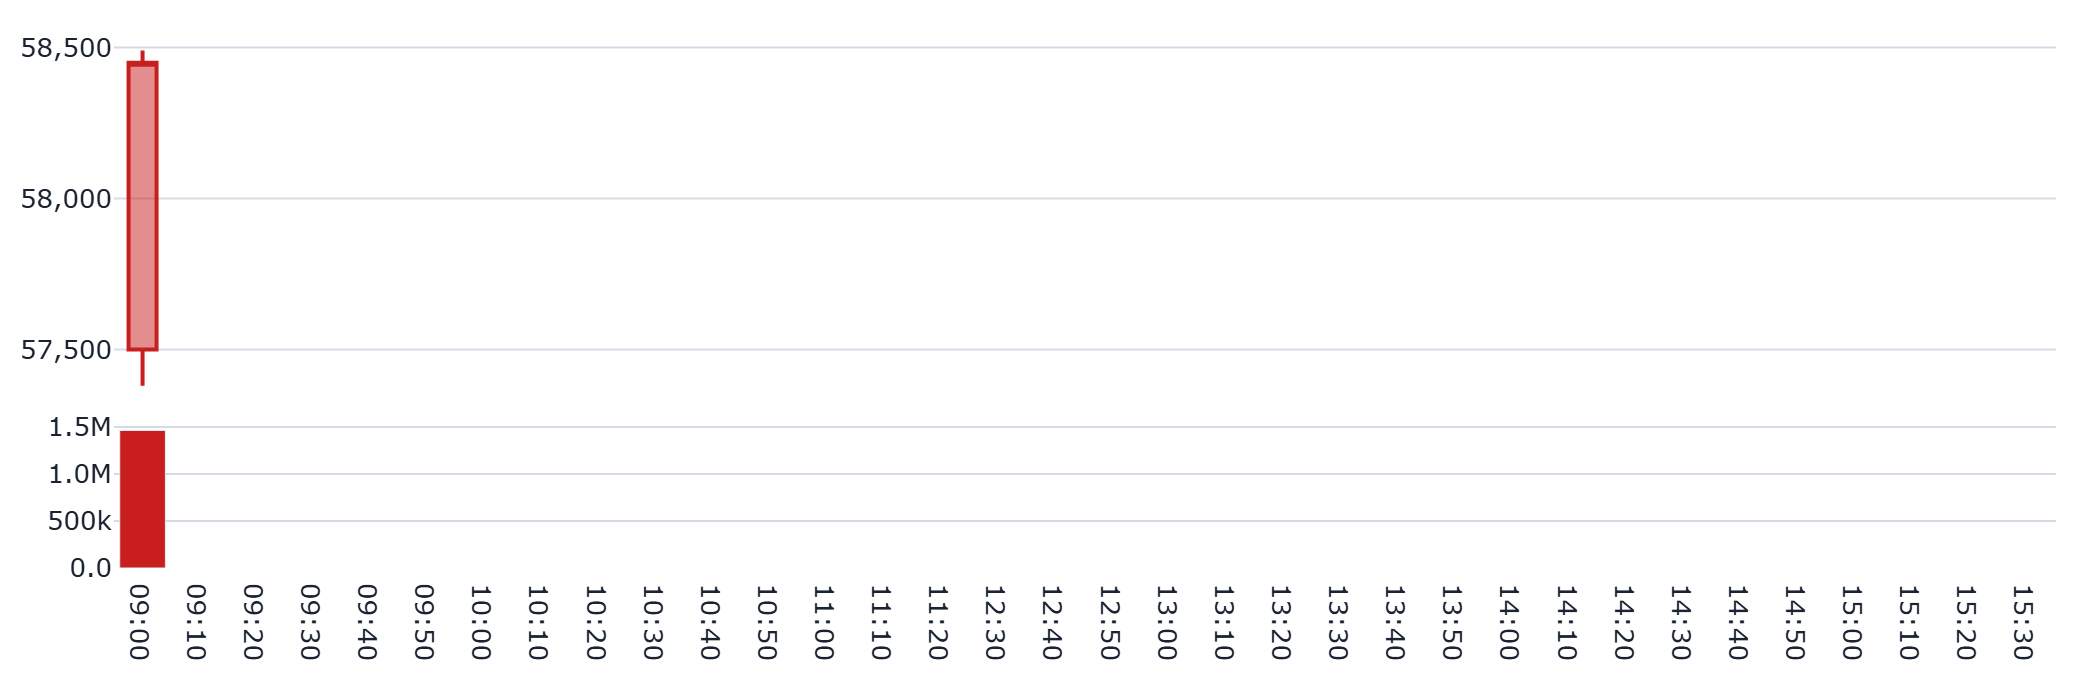
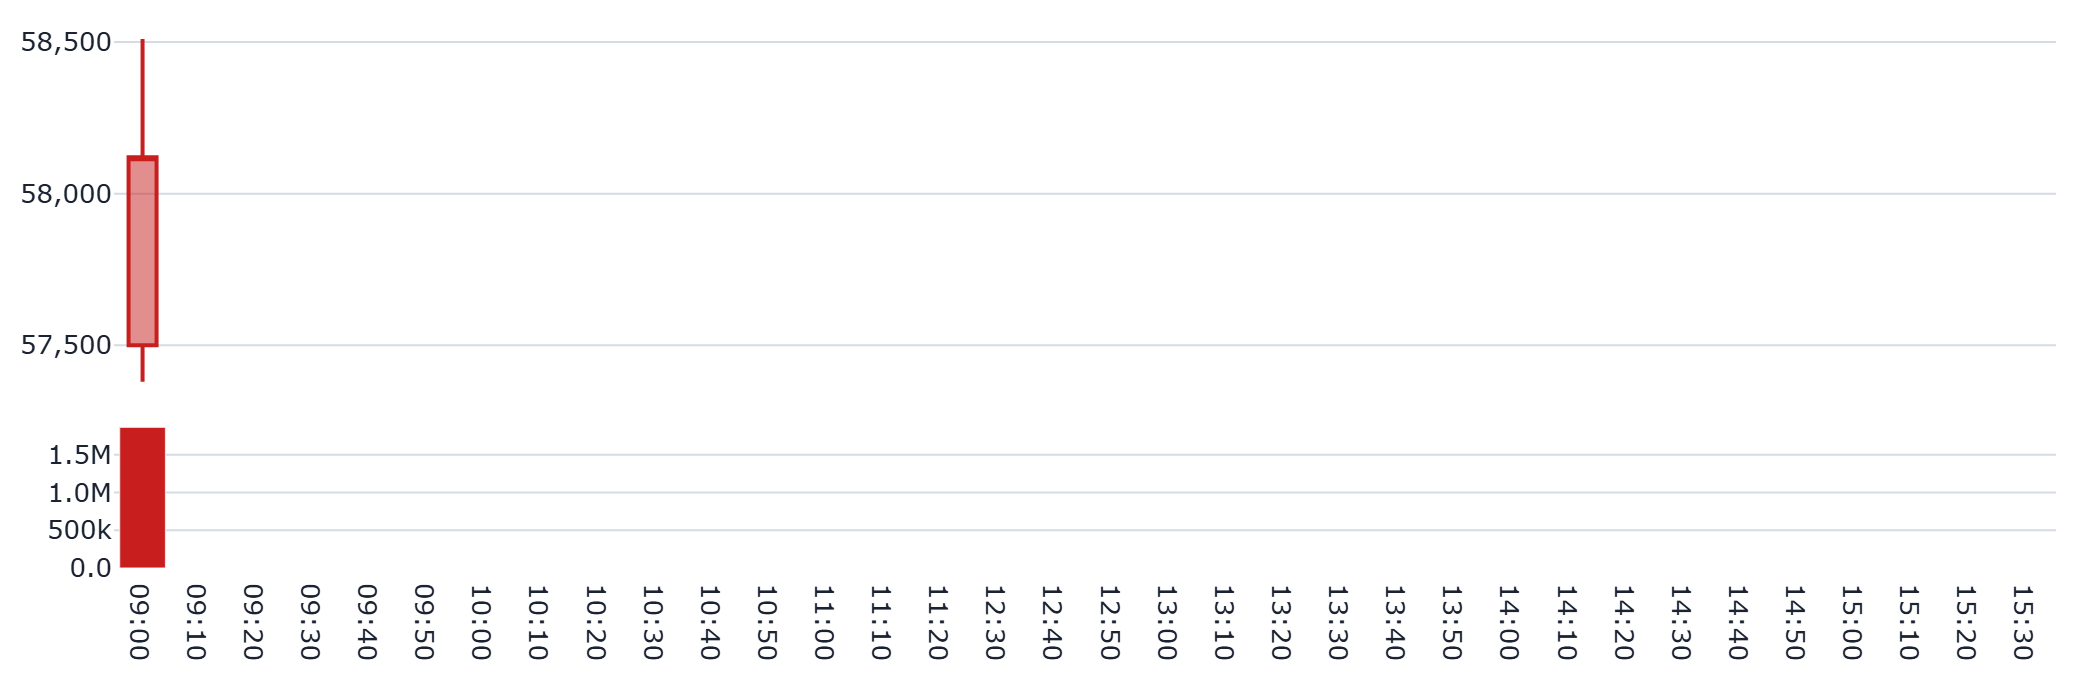
auto: refresh static dashboard (2026-09-09 09:06:03 JST)

diff --git a/docs/index.html b/docs/index.html
@@ -137,12 +137,12 @@
       <div class="panel header">
         <span class="symbol">285A</span>
         <span class="company">キオクシアホールディングス</span>
-        <span class="price">58,450円</span>
-        <span class="chg" style="color:#C81E1E">+1.81%</span>
+        <span class="price">58,120円</span>
+        <span class="chg" style="color:#C81E1E">+1.24%</span>
       </div>
       <p class="caption">更新時刻: 2026-09-09T08:55:29（データは1分間隔で自動生成され、このページも
       60秒毎に自動再読み込みされます）</p>
-      <p class='caption'>⚠ データの更新が約8分前から止まっている可能性があります(通常は1分毎に自動生成)。</p>
+      <p class='caption'>⚠ データの更新が約10分前から止まっている可能性があります(通常は1分毎に自動生成)。</p>
       <p id='visit-count-badge' class='caption'>👀 累計閲覧数: 3,319</p>
       <p id='like-button-wrap' class='caption'><button id='like-button' type='button' style='cursor:pointer;border:1px solid var(--border);border-radius:6px;padding:1px 10px;margin-right:6px;background:var(--panel);color:var(--text);font-size:1em;vertical-align:middle'>👍</button><span id='like-count-label'>このダッシュボードが役に立ったら押してください（累計 4 いいね）</span></p>
 
@@ -150,7 +150,7 @@
            (ai_sector_monitor)のtemplates/index.htmlと同じく、AI考察はタブ非依存で
            常時最上部に表示する。 -->
       <h2>🤖 AI考察</h2>
-      <div class='metric-row'><div class='metric-card'><div class='metric-label'>株価</div><div class='metric-value'>58,450円</div><div class='metric-delta'>+1040円</div></div><div class='metric-card'><div class='metric-label'>強気比率</div><div class='metric-value'>35.8%</div><div class='metric-delta'>+0.0pt</div></div><div class='metric-card'><div class='metric-label'>弱気比率</div><div class='metric-value'>41.8%</div><div class='metric-delta'>+0.0pt</div></div></div><p class='caption'>前回集計(2026-09-09T08:49:41)との比較</p>
+      <div class='metric-row'><div class='metric-card'><div class='metric-label'>株価</div><div class='metric-value'>58,120円</div><div class='metric-delta'>+710円</div></div><div class='metric-card'><div class='metric-label'>強気比率</div><div class='metric-value'>35.8%</div><div class='metric-delta'>+0.0pt</div></div><div class='metric-card'><div class='metric-label'>弱気比率</div><div class='metric-value'>41.8%</div><div class='metric-delta'>+0.0pt</div></div></div><p class='caption'>前回集計(2026-09-09T08:49:41)との比較</p>
       <div class='ai-box'>キオクシアホールディングス（285A）の寄り付き前における掲示板センチメントの集計データに基づき、現状の市場心理を分析します。<br>
 <br>
 本日の寄り付きに向けた掲示板の反応を見ると、強気比率35.8%に対し弱気比率41.8%となっており、やや慎重な姿勢が目立ちます。特筆すべきは、前営業日（9月8日）と比較したセンチメントの変化です。前営業日の終値時点では強気24.3%、弱気22.1%と極めて拮抗した数値でしたが、本日を迎えるにあたって強気比率が上昇し、かつ弱気比率も同時に高まるという複雑な動きを見せています。これは、価格の推移に対する単純な期待や不安だけでなく、投資家間で意見の分かれる局面にあることを示唆しています。<br>
@@ -191,7 +191,7 @@
             <h3>ボラ・レジーム帯</h3>
             <figure><img src='images/regime_band.png' alt='ボラ・レジーム帯' loading='lazy'></figure>
             <p class='caption'>現在レジーム: 較正中　(BVP=0.243)</p>
-            <div class='metric-row'><div class='metric-card'><div class='metric-label'>PTS（09/09 08:55）</div><div class='metric-value'>58,299円</div><div class='metric-delta' style='color:#C81E1E'>+1.55%</div></div><div class='metric-card'><div class='metric-label'>米国ADR（09/09 04:58）</div><div class='metric-value'>57,361円</div><div class='metric-delta' style='color:#1D4ED8'>-0.09%</div></div></div><p class='caption'>PTS=東証取引時間外の私設取引システム／ADR=米国預託証券。翌営業日の値動きの参考情報です(それ自体が売買シグナルではありません)。</p>
+            
           </div>
         </div>
 
@@ -231,7 +231,7 @@
       <section data-tab-panel="trend" class="tab-hidden">
         <h2>📅 本日の推移（イントラデイ）</h2>
         <h3>本日の価格推移（10分足ローソク足・出来高）</h3>
-        <p class='caption'>本日の高値 58,490円 ／ 安値 57,380円</p>
+        <p class='caption'>本日の高値 58,510円 ／ 安値 57,380円</p>
         <div class="panel"><figure><img src='images/today_price.png' alt='本日の価格推移' loading='lazy'></figure></div>
         <h3>板の買い・売り総計（成行込み全価格帯・60秒平均）</h3>
         <p class="caption">表示10本の気配だけでなく、外側の気配(OVER/UNDER)と成行注文も含めた板全体の数量合計です。
@@ -259,11 +259,11 @@
         <div class="grid2">
           <div class="panel">
             <h3>支持線・抵抗線の目安（SD単位）</h3>
-            <table style='width:100%;border-collapse:collapse;font-size:.92em'><thead><tr><th style='text-align:left'>値幅の目安</th><th style='text-align:left'>上側の水準</th><th style='text-align:left'>下側の水準</th></tr></thead><tbody><tr><td>0.5SD（±2.50%）</td><td>59,912円</td><td>56,988円</td></tr><tr><td>1.0SD（±5.00%）</td><td>61,373円</td><td>55,527円</td></tr><tr><td>1.5SD（±7.50%）</td><td>62,835円</td><td>54,065円</td></tr></tbody></table><p class='caption'>直近14日間の最高値（2026-09-07・59,530円）からの乖離: -1.81%</p><p class='caption'>SDは直近14日間の日次終値リターンの標準偏差（5.00%/日）から算出した値幅の目安であり、到達を予測するものではありません。</p>
+            <table style='width:100%;border-collapse:collapse;font-size:.92em'><thead><tr><th style='text-align:left'>値幅の目安</th><th style='text-align:left'>上側の水準</th><th style='text-align:left'>下側の水準</th></tr></thead><tbody><tr><td>0.5SD（±2.50%）</td><td>59,573円</td><td>56,667円</td></tr><tr><td>1.0SD（±5.00%）</td><td>61,027円</td><td>55,213円</td></tr><tr><td>1.5SD（±7.50%）</td><td>62,480円</td><td>53,760円</td></tr></tbody></table><p class='caption'>直近14日間の最高値（2026-09-07・59,530円）からの乖離: -2.37%</p><p class='caption'>SDは直近14日間の日次終値リターンの標準偏差（5.00%/日）から算出した値幅の目安であり、到達を予測するものではありません。</p>
           </div>
           <div class="panel">
             <h3>市場コンテキスト</h3>
-            <div class='metric-row'><div class='metric-card'><div class='metric-label'>本日の値動きの型</div><div class='metric-value' style='font-size:1.05rem'>トレンド型</div><div class='metric-delta'>不確実性: 普段並み</div></div><div class='metric-card'><div class='metric-label'>値動き ÷ 執行コスト</div><div class='metric-value'>約65.6倍</div><div class='metric-delta'>費用実測2.76bp</div></div></div><p class='caption'>海外ピアの値動き・本日の値動きの型はいずれも事実の記述であり、翌営業日の値動きを予測するものではありません。値動き÷執行コストは値幅の大きさの目安であり、実際に利益を確保できることを意味しません。</p>
+            <div class='metric-row'><div class='metric-card'><div class='metric-label'>本日の値動きの型</div><div class='metric-value' style='font-size:1.05rem'>トレンド型</div><div class='metric-delta'>不確実性: 普段並み</div></div><div class='metric-card'><div class='metric-label'>値動き ÷ 執行コスト</div><div class='metric-value'>約44.9倍</div><div class='metric-delta'>費用実測2.76bp</div></div></div><p class='caption'>海外ピアの値動き・本日の値動きの型はいずれも事実の記述であり、翌営業日の値動きを予測するものではありません。値動き÷執行コストは値幅の大きさの目安であり、実際に利益を確保できることを意味しません。</p>
           </div>
         </div>
         <div class="panel">
@@ -278,7 +278,7 @@
 
       <hr style="border:none;border-top:1px solid var(--border);margin:2rem 0 1rem">
       <p class="caption">⚠ 本情報は掲示板投稿を統計的に集計したものであり、投資助言ではありません。個別の投稿内容は含まれていません。研究・エンタメ用途です。</p>
-      <footer>生成: generate_static_dashboard.py（2026-09-09T09:03:54） /
+      <footer>生成: generate_static_dashboard.py（2026-09-09T09:05:57） /
       画像バックエンド: plotly+kaleido</footer>
     </div>
     <script>(function(){var url="https://script.google.com/macros/s/AKfycbwgSSGQ2n56ohmIYKlNDA1Xe3D8hd3GJbD0U90L4DGtXdb8pqrPokNMHJWjvN1__7bE/exec";var KEY='bbs_visit_counted';var already=sessionStorage.getItem(KEY);var action=already?'read':'hit';var ctrl=(typeof AbortController!=='undefined')?new AbortController():null;var timer=ctrl?setTimeout(function(){ctrl.abort();},5000):null;fetch(url+'?action='+action,{signal:ctrl?ctrl.signal:undefined}).then(function(r){if(timer)clearTimeout(timer);return r.json();}).then(function(data){if(!already)sessionStorage.setItem(KEY,'1');if(data&&typeof data.count==='number'){var el=document.getElementById('visit-count-badge');if(el){el.textContent='\u{1F440} \u7d2f\u8a08\u95b2\u89a7\u6570: '+data.count.toLocaleString();el.style.display='';}}}).catch(function(e){if(timer)clearTimeout(timer);console.warn('visit counter fetch failed (fail-soft):',e);});})();</script><script>(function(){var url="https://script.google.com/macros/s/AKfycbwgSSGQ2n56ohmIYKlNDA1Xe3D8hd3GJbD0U90L4DGtXdb8pqrPokNMHJWjvN1__7bE/exec";var KEY='bbs_liked';var btn=document.getElementById('like-button');var label=document.getElementById('like-count-label');if(!btn||!label)return;function renderLiked(count){btn.disabled=true;btn.style.cursor='default';btn.style.opacity='0.6';btn.textContent='\u2705';label.textContent="\u3044\u3044\u306d\u3057\u307e\u3057\u305f\uff01"+(typeof count==='number'?"\uff08\u7d2f\u8a08 "+count.toLocaleString()+" \u3044\u3044\u306d\uff09":'');}if(localStorage.getItem(KEY)){renderLiked(null);}btn.addEventListener('click',function(){if(localStorage.getItem(KEY))return;btn.disabled=true;var ctrl=(typeof AbortController!=='undefined')?new AbortController():null;var timer=ctrl?setTimeout(function(){ctrl.abort();},5000):null;fetch(url+'?action=like_hit',{signal:ctrl?ctrl.signal:undefined}).then(function(r){if(timer)clearTimeout(timer);return r.json();}).then(function(data){localStorage.setItem(KEY,'1');renderLiked(data&&typeof data.count==='number'?data.count:null);}).catch(function(e){if(timer)clearTimeout(timer);btn.disabled=false;console.warn('like button fetch failed (fail-soft):',e);});});})();</script><script>(function(){var DEFAULT_TAB='overview';function activate(tabName){var buttons=document.querySelectorAll('.tab-bar .tab-btn');var panels=document.querySelectorAll('[data-tab-panel]');if(!buttons.length||!panels.length)return;var matched=false;panels.forEach(function(p){var on=p.getAttribute('data-tab-panel')===tabName;if(on)matched=true;p.classList.toggle('tab-hidden',!on);});if(!matched){panels.forEach(function(p){p.classList.toggle('tab-hidden',p.getAttribute('data-tab-panel')!==DEFAULT_TAB);});tabName=DEFAULT_TAB;}buttons.forEach(function(b){var on=b.getAttribute('data-tab')===tabName;b.classList.toggle('active',on);b.setAttribute('aria-selected',on?'true':'false');});}document.addEventListener('DOMContentLoaded',function(){var bar=document.getElementById('tabBar');if(!bar)return;bar.addEventListener('click',function(e){var btn=e.target.closest('.tab-btn');if(!btn)return;activate(btn.getAttribute('data-tab'));});activate(DEFAULT_TAB);});})();</script></body></html>
